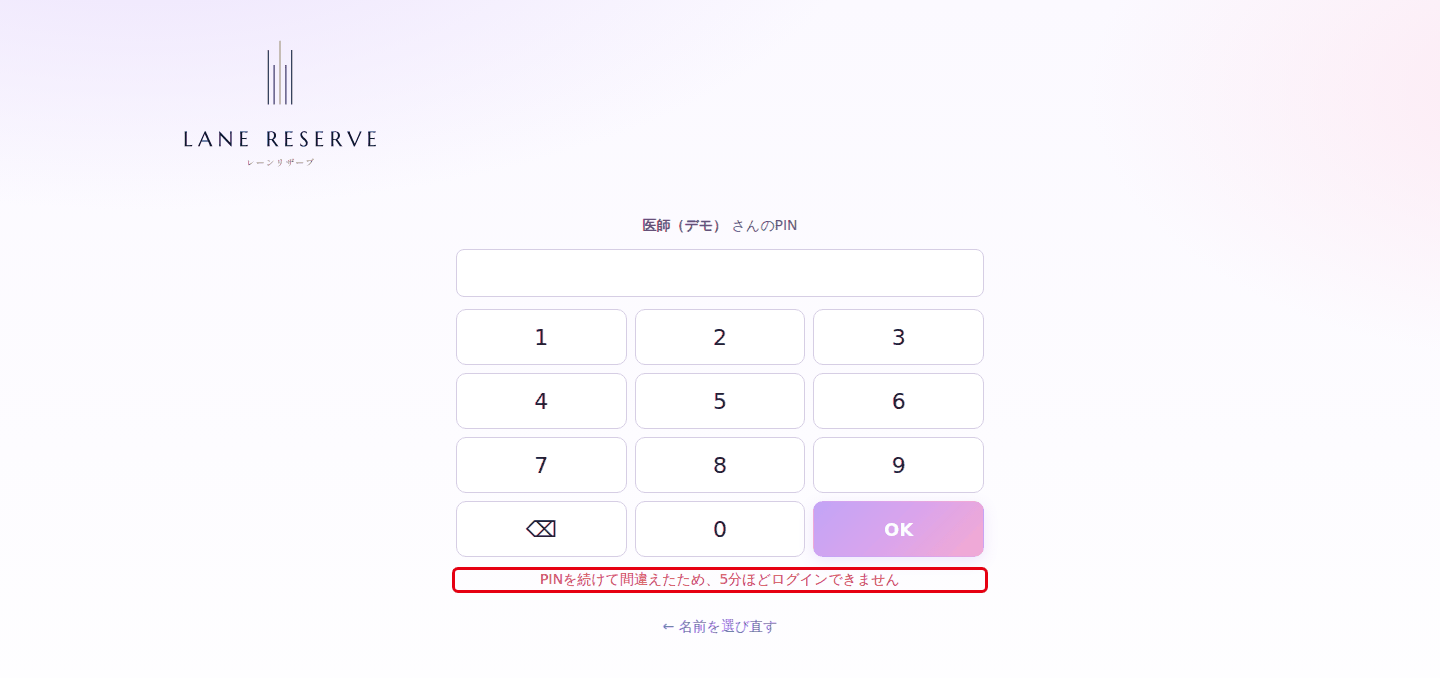
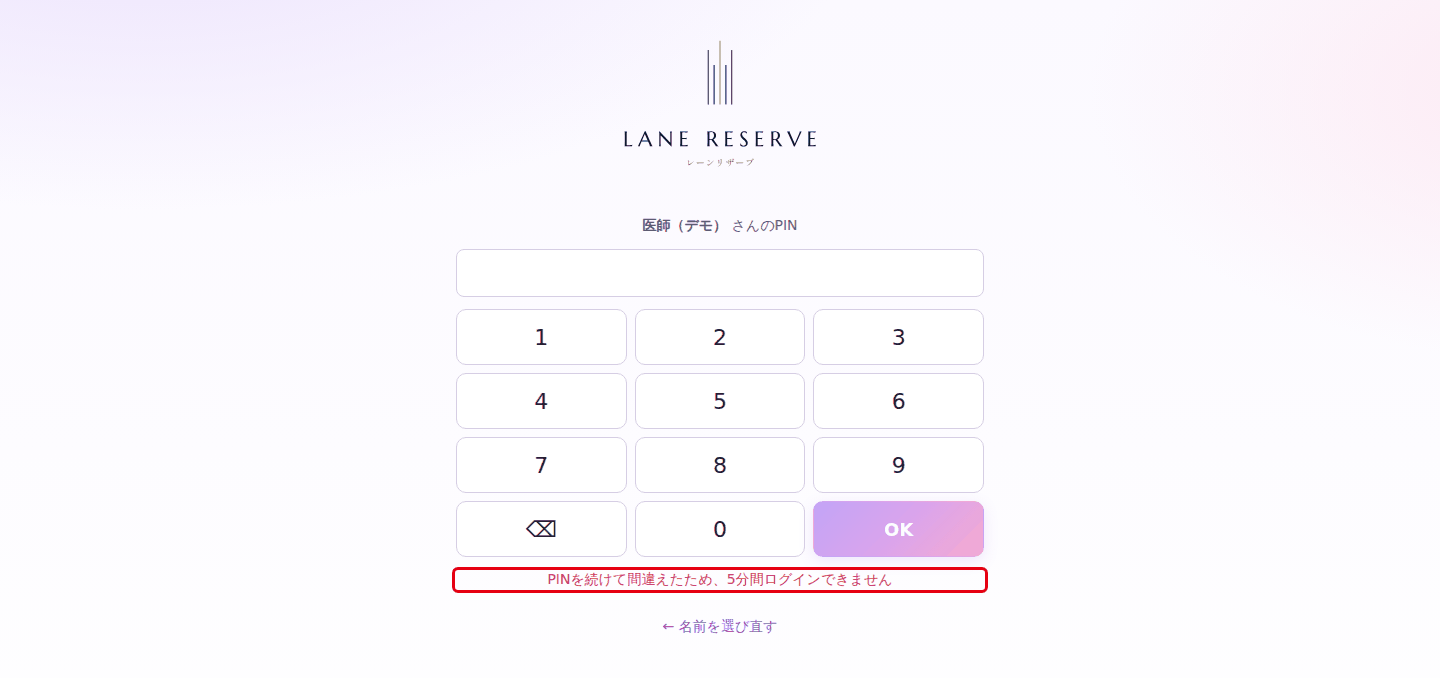
操作マニュアル：ログイン画面の写真を撮り直し（ロゴ中央）、ロック時の文言を合わせる
Claude-Session: https://claude.ai/code/session_01QVwqemKgjejDT1q69zBnSy

diff --git a/apps/reserve/docs/manual/manual.html b/apps/reserve/docs/manual/manual.html
@@ -696,7 +696,7 @@ dialog button { position: fixed; top: calc(env(safe-area-inset-top, 0px) + 12px)
 - 設定の変更で「この操作の権限がありません」と出たら、管理操作のできる人に頼んでください（<a href="#15-役割ごとにできること">15章</a>）。</p>
 <p><strong>Q. 「他の端末で先に更新されました」と出た（同時に編集した）</strong>
 - ほかの人が同じ予約・患者・記録を先に変えています。上書きはされません。予約表は自動で最新に読み直されます。患者画面では「最新の内容を読み込む」を押し、もう一度直してください（<a href="#8-9-ほかの人が同時に同じ患者を直したとき">8-9</a>）。</p>
-<p><strong>Q. ログインできない／「5分ほどログインできません」と出た</strong>
+<p><strong>Q. ログインできない／「5分間ログインできません」と出た</strong>
 - PINを5回続けて間違えたためのロックです。表示された時間を待ってから入れ直してください。続けて間違えると、ロックの時間が長くなります。
 - PINを忘れたときは、院長・管理者に設定 → スタッフ →「PINを変更」で新しいPINにしてもらいます。
 - 「利用停止」になっていると名前が出ません。院長に確認してください。
